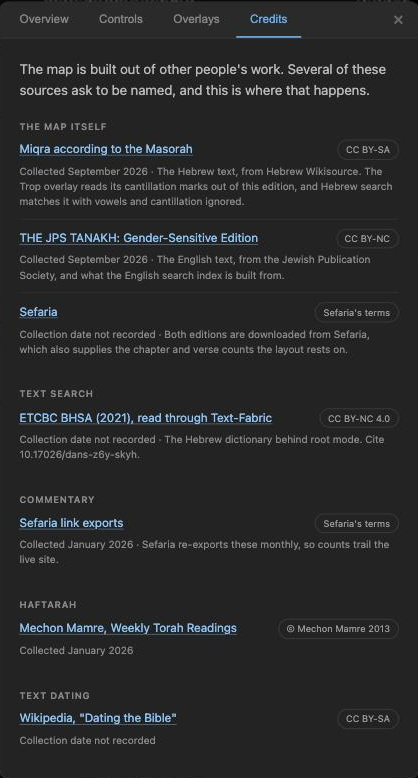
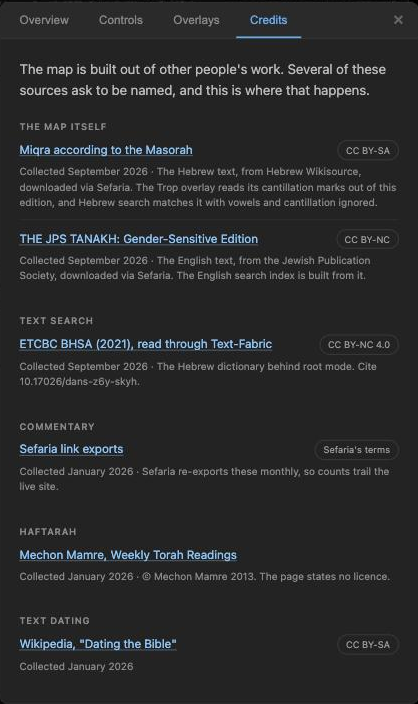
Date BHSA and the Wikipedia article, and drop the Sefaria row
Danyel confirmed the two dates git could not: BHSA was pulled in
September 2026 and the Wikipedia article read in January 2026. No row
now reads "collection date not recorded".

The Sefaria row went with them. It covered two things collected at
different times — the export bucket and the verse counts — so its single
date could only be right about one of them, and every reader who met it
asked what it meant. Sefaria is credited where it belongs instead: each
edition's note says it was downloaded via Sefaria, and the Commentary
block credits the link exports, where Sefaria is the source rather than
the delivery.

Claude-Session: https://claude.ai/code/session_01KHQn8WdgjdEJK8fbuXrxZi

diff --git a/src/credits.ts b/src/credits.ts
@@ -41,20 +41,14 @@ export const APP_CREDITS: readonly Credit[] = [
     url: 'https://he.wikisource.org/wiki/%D7%9E%D7%A9%D7%AA%D7%9E%D7%A9:Dovi/%D7%9E%D7%A7%D7%A8%D7%90_%D7%A2%D7%9C_%D7%A4%D7%99_%D7%94%D7%9E%D7%A1%D7%95%D7%A8%D7%94',
     license: 'CC BY-SA',
     collected: 'September 2026',
-    note: 'The Hebrew text, from Hebrew Wikisource. The Trop overlay reads its cantillation marks out of this edition, and Hebrew search matches it with vowels and cantillation ignored.',
+    note: 'The Hebrew text, from Hebrew Wikisource, downloaded via Sefaria. The Trop overlay reads its cantillation marks out of this edition, and Hebrew search matches it with vowels and cantillation ignored.',
   },
   {
     source: 'THE JPS TANAKH: Gender-Sensitive Edition',
     url: 'https://jps.org/books/the-jps-tanakh-gender-sensitive-edition/',
     license: 'CC BY-NC',
     collected: 'September 2026',
-    note: 'The English text, from the Jewish Publication Society, and what the English search index is built from.',
-  },
-  {
-    source: 'Sefaria',
-    url: 'https://www.sefaria.org/',
-    license: "Sefaria's terms",
-    note: 'Both editions are downloaded from Sefaria, which also supplies the chapter and verse counts the layout rests on.',
+    note: 'The English text, from the Jewish Publication Society, downloaded via Sefaria. The English search index is built from it.',
   },
 ];
 

diff --git a/src/__tests__/unit/credits.test.ts b/src/__tests__/unit/credits.test.ts
@@ -104,8 +104,13 @@ describe('APP_CREDITS', () => {
     expect(sources).toContain('THE JPS TANAKH: Gender-Sensitive Edition');
   });
 
-  it('credits Sefaria, which delivers the texts and the verse counts', () => {
-    expect(APP_CREDITS.some((c) => c.source.includes('Sefaria'))).toBe(true);
+});
+
+describe('Sefaria', () => {
+  it('is credited somewhere, whichever block it sits in', () => {
+    const all = [...APP_CREDITS, ...getAllOverlays().flatMap((o) => o.credits ?? [])];
+
+    expect(all.some((c) => c.source.includes('Sefaria'))).toBe(true);
   });
 });
 

diff --git a/src/overlays/search.ts b/src/overlays/search.ts
@@ -571,6 +571,7 @@ export const searchOverlay: Overlay = {
       source: 'ETCBC BHSA (2021), read through Text-Fabric',
       url: 'https://github.com/ETCBC/bhsa',
       license: 'CC BY-NC 4.0',
+      collected: 'September 2026',
       note: 'The Hebrew dictionary behind root mode. Cite 10.17026/dans-z6y-skyh.',
     },
   ],

diff --git a/src/overlays/text-dating.ts b/src/overlays/text-dating.ts
@@ -111,6 +111,7 @@ export const textDatingOverlay: Overlay = {
       source: 'Wikipedia, "Dating the Bible"',
       url: 'https://en.wikipedia.org/wiki/Dating_the_Bible',
       license: 'CC BY-SA',
+      collected: 'January 2026',
     },
   ],
 

diff --git a/docs/plans/2026-09-14-credits-tab-design.md b/docs/plans/2026-09-14-credits-tab-design.md
@@ -90,18 +90,17 @@ From `APP_CREDITS` in `src/credits.ts`, rendered above the overlay blocks.
 
 | Source | Licence | Collected | Note |
 | --- | --- | --- | --- |
-| Miqra according to the Masorah, Hebrew Wikisource | CC BY-SA | September 2026 | The Hebrew text. The marks the Trop overlay shows are part of it, and Hebrew search matches it with vowels and cantillation ignored. |
-| THE JPS TANAKH: Gender-Sensitive Edition, Jewish Publication Society | CC BY-NC | September 2026 | The English text, and what the English search index is built from. |
-| Sefaria | Sefaria's terms | not recorded | Both editions are downloaded from Sefaria, which also supplies the chapter and verse counts the layout rests on. |
+| Miqra according to the Masorah, Hebrew Wikisource | CC BY-SA | September 2026 | The Hebrew text, downloaded via Sefaria. The Trop overlay reads its cantillation marks out of this edition, and Hebrew search matches it with vowels and cantillation ignored. |
+| THE JPS TANAKH: Gender-Sensitive Edition, Jewish Publication Society | CC BY-NC | September 2026 | The English text, downloaded via Sefaria. The English search index is built from it. |
 
 ### One block per overlay
 
 | Overlay | Source | Licence | Collected | Note |
 | --- | --- | --- | --- | --- |
-| Text Search | ETCBC BHSA (2021), read through Text-Fabric | CC BY-NC 4.0 | not recorded | Cite 10.17026/dans-z6y-skyh |
+| Text Search | ETCBC BHSA (2021), read through Text-Fabric | CC BY-NC 4.0 | September 2026 | Cite 10.17026/dans-z6y-skyh |
 | Commentary | Sefaria link exports | Sefaria's terms | January 2026 | Sefaria regenerates these monthly, so counts trail the live site. |
 | Haftarah | Mechon Mamre, Weekly Torah Readings | none stated | January 2026 | © Mechon Mamre 2013. The page states no licence. |
-| Text Dating | Wikipedia, "Dating the Bible" | CC BY-SA | not recorded | — |
+| Text Dating | Wikipedia, "Dating the Bible" | CC BY-SA | January 2026 | — |
 
 Trop and Verse Length declare no credits and do not appear. Both derive
 everything from text that is already credited: Trop reads the cantillation
@@ -128,8 +127,18 @@ A date is therefore given only where a commit plainly is a collection event:
   themselves are not in the repository, but Sefaria re-exports them monthly, so
   the counts are at most about a month older than the file.
 
-Everything else renders as "collection date not recorded" until the next
-regeneration sets it.
+Two further dates come from Danyel directly rather than from the repository:
+BHSA was pulled in September 2026, and the Wikipedia article was read in
+January 2026. Neither is recoverable from git, which is the whole reason the
+field is hand-maintained.
+
+No entry then reads "collection date not recorded". `tanakh-structure.json`
+would have been the one, but Sefaria has no row of its own: a row covering both
+the export bucket and the verse counts could only carry one date between two
+things collected at different times, and it confused every reader who met it.
+Sefaria is still credited in two places: each edition's note says it was
+downloaded via Sefaria, and the Commentary block credits Sefaria's link exports,
+where it is the actual source rather than the delivery mechanism.
 
 `DATA_REGENERATION.md` gains a line beside each regeneration command reminding
 whoever runs it to update the date in `src/credits.ts`. Nothing enforces that,

diff --git a/DATA_REGENERATION.md b/DATA_REGENERATION.md
@@ -21,10 +21,9 @@ help modal. The collection dates shown there are hand-maintained strings in
 `src/credits.ts`: no data file carries a generation timestamp, and a git commit
 date cannot stand in for one, because a commit that merely moves or refactors a
 data file would claim it had been re-collected that month. **Whenever you run
-one of the commands below, set that source's `collected` date.** Several
-sources have no `collected` line today, because no past commit is plainly a
-collection event; add the field when you are the one collecting. Where it is
-absent the tab says the date is not recorded rather than guessing.
+one of the commands below, set that source's `collected` date.** A source with
+no `collected` line shows as "collection date not recorded" rather than
+guessing; add the field when you are the one collecting.
 
 ## Verse Texts
 
@@ -73,8 +72,8 @@ thing afterwards.
 node scripts/fetch-tanakh-structure.js > public/data/tanakh-structure.json
 ```
 
-Then set Sefaria's `collected` date in `src/credits.ts`. There is no such
-line yet — add one.
+The verse counts have no credit row of their own, so there is no date to
+update here.
 
 ## Hebrew Lexeme Index
 
@@ -90,8 +89,7 @@ Text-Fabric the first time. Once that setup is done:
 .venv/bin/python scripts/search/generate-lexeme-index.py
 ```
 
-Then set the BHSA `collected` date in `src/overlays/search.ts`. There is no
-such line yet — add one to that credit.
+Then set the BHSA `collected` date in `src/overlays/search.ts`.
 
 ## Text Dating Data
 
